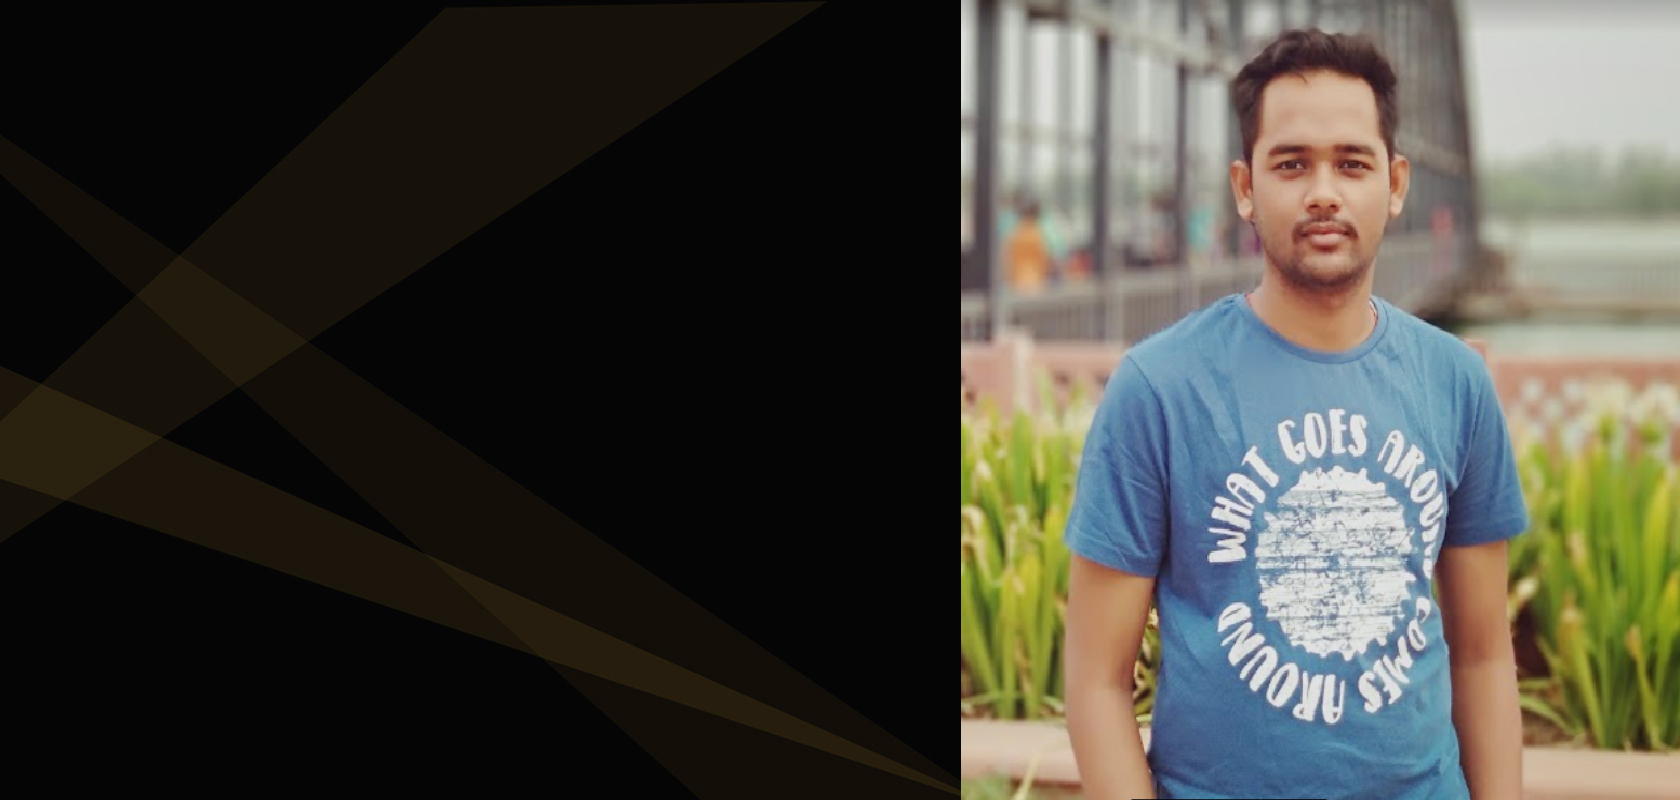
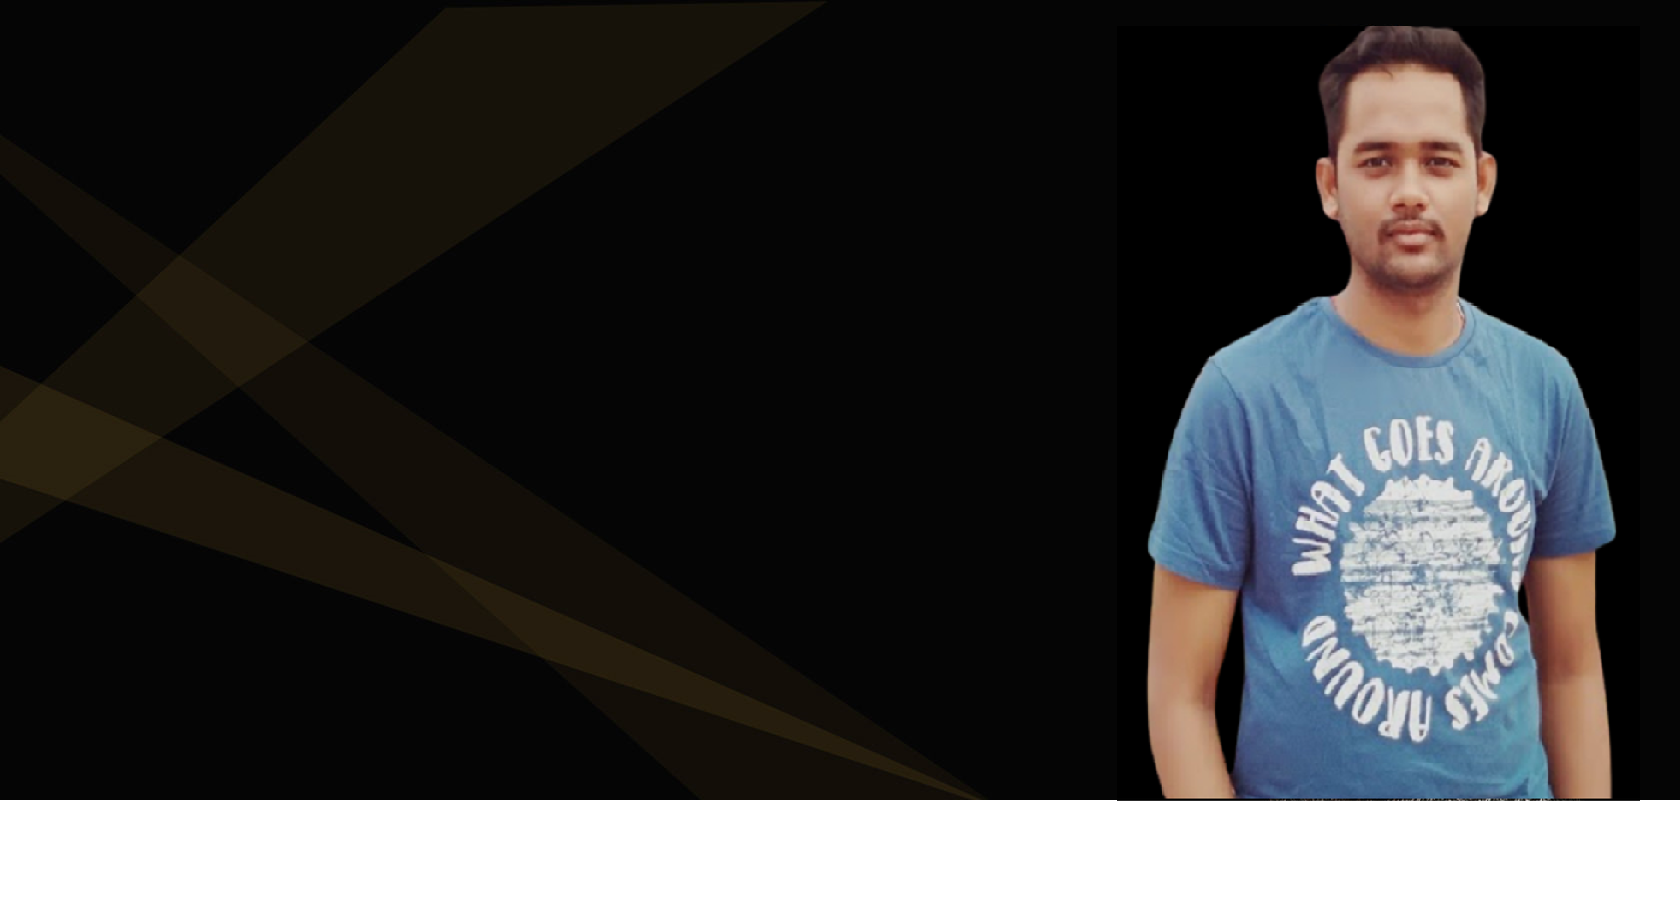
background image added

diff --git a/index.html b/index.html
@@ -7,6 +7,7 @@
     <title>Personal Portfolio Website</title>
     <link rel="stylesheet" href="style.css">
     <script src="https://kit.fontawesome.com/yourcode.js"></script>
+    <script>src="https://code.jquery.com/jquery-3.6.0.min.js"</script>
 </head>
 <body>
     <nav class="navbar">
@@ -15,12 +16,50 @@
             <ul class="menu">
                 <li><a href="#">Home</a></li>
                 <li><a href="#">About</a></li>
-                <li><a href="#">Services</a></li>
+                <li><a href="#">Coding Profiles</a></li>
                 <li><a href="#">Skills</a></li>
-                <li><a href="#">Teams</a></li>
+                <li><a href="#">Services</a></li>
                 <li><a href="#">Contacts</a></li>
             </ul>
         </div>
     </nav>
+
+
+
+    <!-- home section starts here -->
+    <section class="home" id="home">
+        <div class="max-width">
+            <div class="home-content">
+                <div class="text-1">Hello, my name is</div>
+                <div class="text-2">Rahul Singh</div>
+                <div class="text-3">And I'm a <span>CS Undergrad</span></div>
+            </div>
+        </div>
+    </section>
+    <script src="./script.js"></script>
+    <p>
+        Lorem ipsum dolor sit amet consectetur adipisicing elit. Qui tempora 
+        totam atque fugit est aspernatur a ducimus doloremque architecto explicabo 
+        animi, dolore sunt, illo quas at odio incidunt alias? Voluptatum velit sed m
+        agnam soluta illo totam placeat ipsam consectetur qui laborum, nisi labore 
+        debitis ad id porro, deserunt numquam dolores eos. At ipsam soluta excepturi m
+        olestias dicta nostrum possimus sequi animi eius earum! Ut dolores modi tempora 
+        inventore ipsum officia possimus nemo ipsa eos? Debitis voluptates quibusdam 
+        explicabo consequatur ullam fuga veritatis, est voluptatem non voluptas nisi sed 
+        blanditiis optio aliquam ipsa omnis quisquam natus at esse minima dicta assumenda 
+        temporibus necessitatibus! Deleniti, soluta fugiat ducimus ea dignissimos cumque 
+        cupiditate rem perspiciatis? Id laudantium magnam deserunt maiores odit. Dolore 
+        totam dolorum necessitatibus laborum dolorem dolor quaerat voluptate facere 
+        reprehenderit tempora ex modi hic quia est magni maiores assumenda quae, nesciunt 
+        doloremque quam, cum aperiam architecto? Architecto quae quisquam iste molestias 
+        provident debitis porro, incidunt dolores vero, veritatis eius, excepturi sapiente 
+        delectus sequi quasi iusto voluptatem. Necessitatibus illum praesentium, consectetur
+         aut, vel enim temporibus velit iure est impedit quam illo cupiditate ipsa vitae dicta 
+         ratione fugit explicabo quis provident aliquid. Obcaecati consequatur labore minus 
+         itaque, nesciunt quis ipsam voluptas ducimus sunt!
+    </p>
+
+    
+
 </body>
 </html>

diff --git a/style.css b/style.css
@@ -8,7 +8,7 @@
 }
 .max-width{
     max-width: 1300px;
-    padding: 0 50px;
+    padding: 0 80px;
     margin: auto;
 }
 
@@ -16,9 +16,16 @@
 .navbar{
     position: fixed;
     width: 100%;
-    z-index: 999;
+    /* background: gold; */
+    /* z-index: 999; */
     padding: 30px 0;
     font-family: 'Ubuntu', sans-serif;
+    transition: all 0.3s ease;
+}
+.navbar.sticky
+{
+    padding: 30px 0;
+    background: crimson;
 }
 
 .navbar .max-width{
@@ -27,7 +34,7 @@
     justify-content: space-between;
 }
 .navbar .logo a{
-    color: darkmagenta;
+    color: #fff;
     font-size: 35px;
     font-weight: 600;
 }
@@ -40,8 +47,53 @@
 }
 .navbar .menu li a{
     display: block;
-    color: green;
+    color: #fff;
     font-size: 18px;
     font-weight: 500;
     margin-left: 25px;
+    transition: color 0.3s ease;
+}
+.navbar .menu li a:hover
+{
+    color: crimson;
+}
+
+
+/* home section sytling */
+
+.home
+{
+    display: flex;
+    background: url("./images/banner.png") no-repeat;
+    background-size: 1300px 700px;
+    height: 100vh;
+    color: #fff;
+    min-height: 500px;
+    font-family: 'Ubuntu', sans-serif;
+}
+
+.home .max-width
+{
+    margin: auto 0 auto 40px;
+}
+
+.home .home-content .text-1
+{
+    font-size: 27px;
+}
+.home .home-content .text-2
+{
+    font-size: 75px;
+    font-weight: 600;
+    margin-left: -3px;
+}
+.home .home-content .text-3
+{
+    font-size: 40px;
+    margin: 5px 0;
+}
+.home .home-content .text-3 span
+{
+    color: crimson;
+    font-weight: 500;
 }

diff --git a/script.js b/script.js
@@ -1,0 +1,14 @@
+$(document).ready(function()
+{
+    $(window).scroll(function()
+    {
+        if(this.scrollY > 20)
+        {
+            $('.navbar').addClass("sticky");
+        }
+        else
+        {
+            $('.navbar').removeClass("sticky");
+        }
+    })
+});
